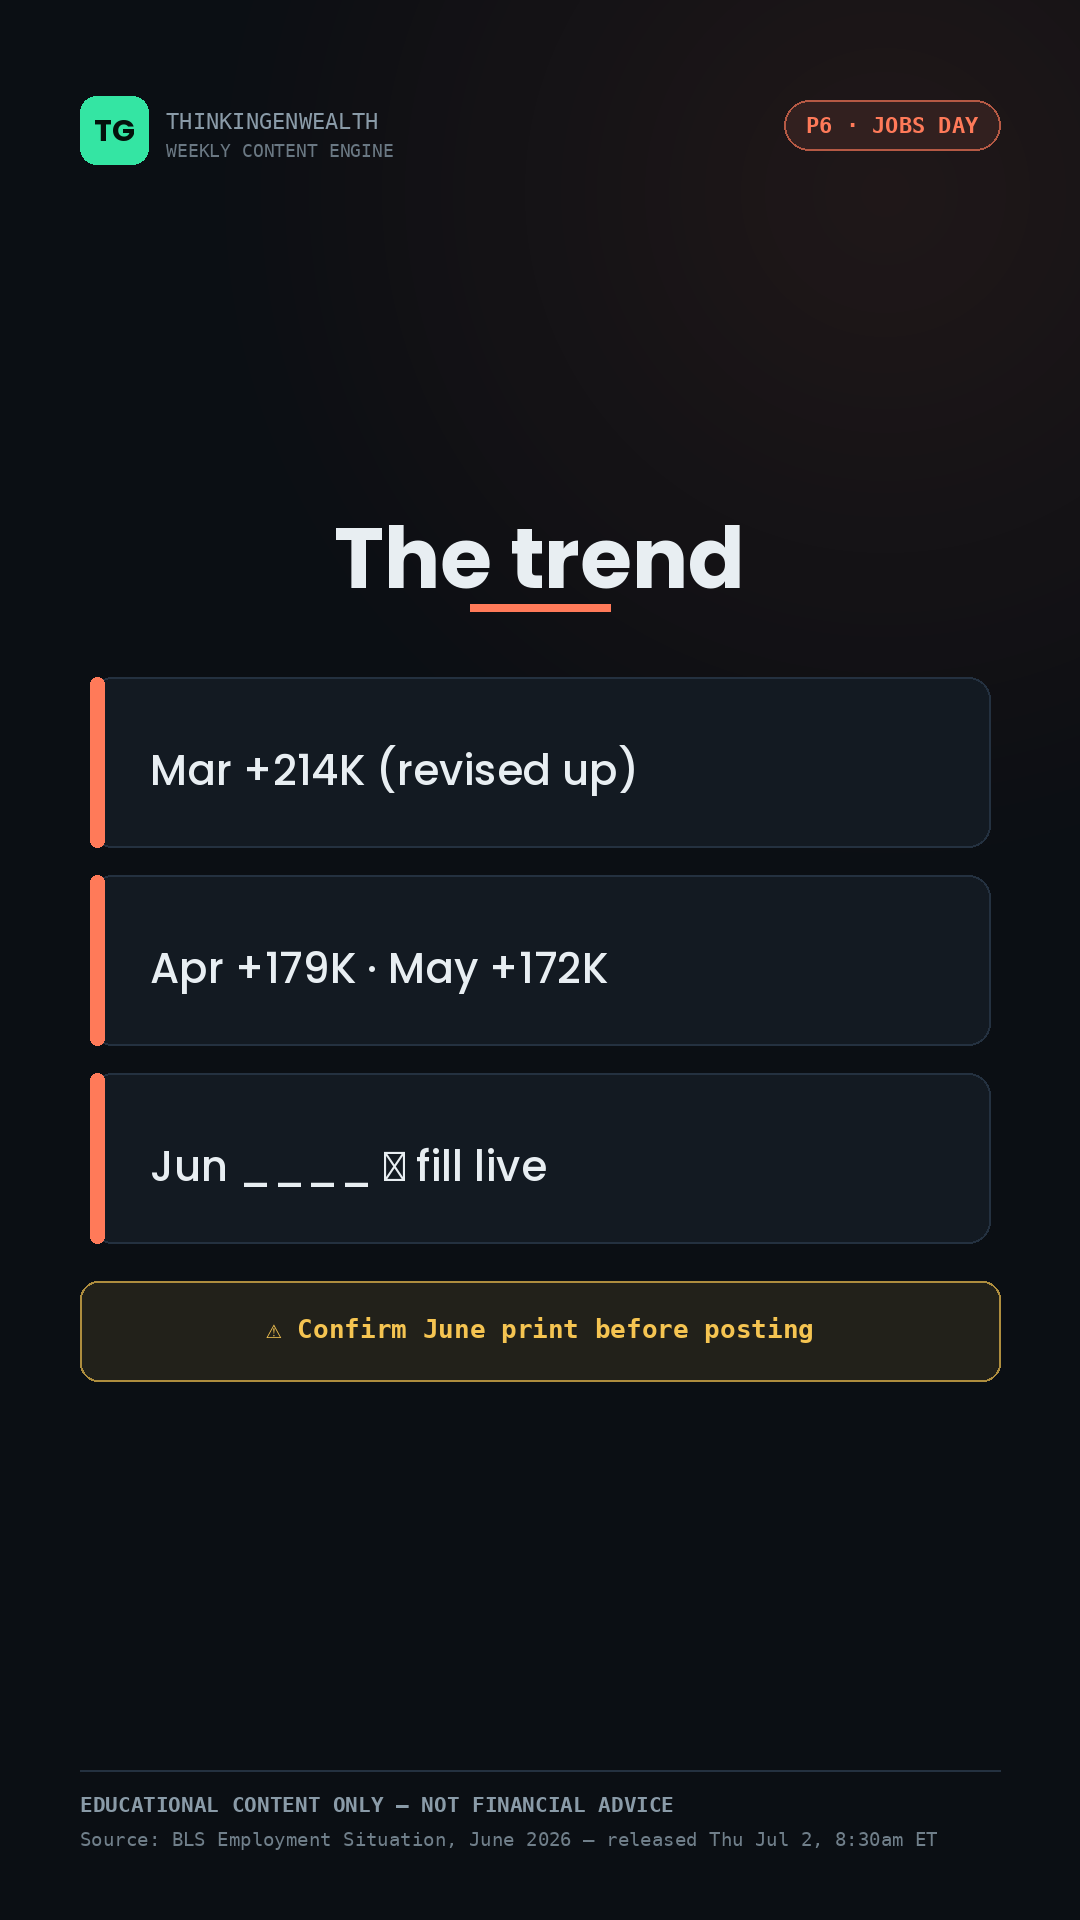
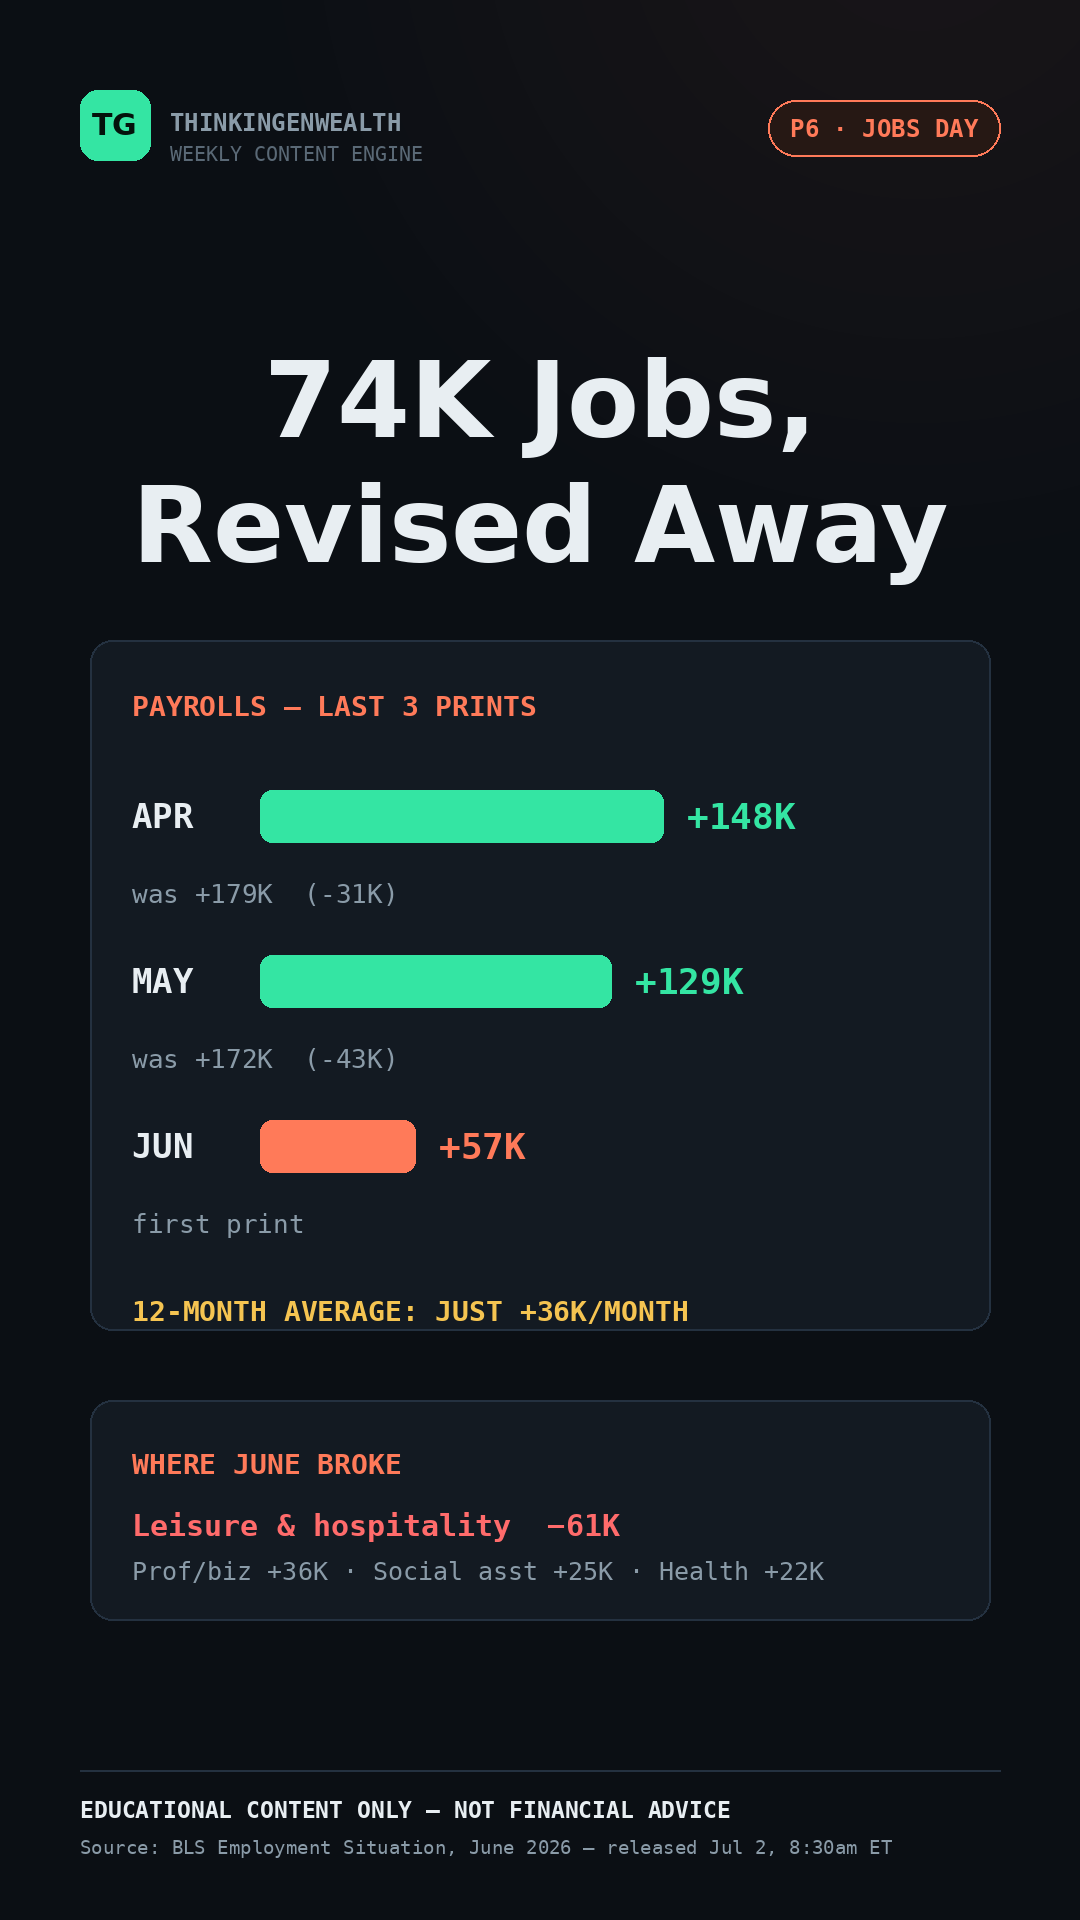
TGW calendar — jobs day update — June report reaction (week of Jun-29-Jul-5)

diff --git a/index.html b/index.html
@@ -279,7 +279,7 @@
     <div class="pat"><span class="v" style="width:64px;color:var(--p6)">MON</span><span class="f">Concrete news-reaction (all-time reach winner) × the AI round-trip<small>👥 TikTok 25–34: "your first $ — buy the dip?" · YouTube 35–54: "what a 2% swing does to your 401(k)/RSUs" · post at the peak (reach-spike)</small></span></div>
     <div class="pat"><span class="v" style="width:64px;color:var(--p4)">TUE</span><span class="f">Deep dive (REVISED): why AI ≠ dot-com 2.0 × last week's selloff + BIS warning<small>👥 Male 25–44 wealth-builders holding tech · lead IG at ~3pm · filming Wed Jul 1</small></span></div>
     <div class="pat"><span class="v" style="width:64px;color:var(--p1)">WED</span><span class="f">Chart education (the 95–125K Search vein) × the dip/bounce<small>👥 TikTok 25–34 lean ("dip or top?") · search-durable, so post off-peak — it compounds via Search</small></span></div>
-    <div class="pat"><span class="v" style="width:64px;color:var(--p6)">THU</span><span class="f">Concrete news-reaction × the June jobs print (8:30am)<small>👥 25–44 rate-path → debt cost (bridges to credit) · post midday reach-spike, lines up with IG peak</small></span></div>
+    <div class="pat"><span class="v" style="width:64px;color:var(--p6)">THU</span><span class="f">Concrete news-reaction × June jobs OUT: +57K miss, 4.2% "for the wrong reason"<small>👥 25–44 rate-path → debt cost (bridges to credit) · TikTok + IG + YT Short · post midday reach-spike, lines up with IG peak</small></span></div>
     <div class="pat"><span class="v" style="width:64px;color:var(--p2)">FRI</span><span class="f">Credit how-to (cross-platform winner) × markets closed / long weekend<small>👥 25–44 "what you can control" · evergreen, post off-peak</small></span></div>
     <div class="pat"><span class="v" style="width:64px;color:var(--p5)">SAT</span><span class="f">Mindset/debate (comment-driver) × Independence Day<small>👥 Male 25–44 ownership angle · weekend = hard Discord CTA</small></span></div>
     <div class="pat"><span class="v" style="width:64px;color:var(--muted)">SUN</span><span class="f">Loop reset — drop the banked trading long-form, record next anchor<small>👥 Route next week's ideas the same way: pillar × peg × audience, angled by age</small></span></div>
@@ -478,52 +478,53 @@
       <div class="dayhead">
         <div class="dow">THU<small>JUL 2 · JOBS DAY</small></div>
         <span class="pill" style="background:rgba(255,122,89,.12);color:var(--p6)">P6 · React</span>
-        <span class="hook">June jobs just dropped — 3 ways it hits your money</span>
+        <span class="hook">Unemployment fell to 4.2% — here's why that's the bad news</span>
         <span class="fmt">Greenscreen / React</span>
         <span class="chev">▶</span>
       </div>
       <div class="daybody"><div class="daybody-in">
         <div class="play">
           <div class="ph">▸ The play — everything for today</div>
-          <div class="playrow"><span class="pk pill">Pillar</span><span>Concrete news-reaction (data-release reach spike) — proven P6.</span></div>
-          <div class="playrow"><span class="pk peg">Peg</span><span>June jobs report, <b>8:30am ET</b> — last print + last trading day before the long weekend (markets closed Fri Jul 3).</span></div>
-          <div class="playrow"><span class="pk who">Who</span><span>25–44 — take it to their money: rate path → debt cost (bridges to credit).</span></div>
-          <div class="playrow"><span class="pk angle">Angle</span><span>"3 ways it hits your money." <b>⚠ FILL LIVE</b> — pull payrolls/unemployment/wages from bls.gov before you cite.</span></div>
-          <div class="playrow"><span class="pk post">Post</span><span>Film right after 8:30am, post <b>late-morning/midday</b> (lines up with IG peak) · TikTok 6–7pm.</span></div>
+          <div class="playrow"><span class="pk pill">Pillar</span><span>Concrete news-reaction (data-release reach spike) — proven P6. Myth-buster twist on top.</span></div>
+          <div class="playrow"><span class="pk peg">Peg</span><span><b>RELEASED 8:30am ET:</b> payrolls <b>+57K</b> (vs ~110K expected) · unemployment <b>4.2%</b> (from 4.3%) · Apr+May revised <b>−74K</b>. Last print + last trading day before the long weekend (markets closed Fri Jul 3).</span></div>
+          <div class="playrow"><span class="pk who">Who</span><span>25–44 — take it to their money: rate path → debt cost (bridges to credit). Younger cut: "what a hiring freeze means for your first job/raise."</span></div>
+          <div class="playrow"><span class="pk angle">Angle</span><span><b>"Unemployment fell — and that's the bad news."</b> The rate dropped because participation fell 0.3pt to 61.5% (people stopped looking), not because hiring picked up. Receipts: +57K miss, −74K revisions.</span></div>
+          <div class="playrow"><span class="pk post">Post</span><span>Film NOW, post <b>late-morning/midday</b> while it's the story (IG 12–3pm peak) · TikTok reaction midday too (reach-spike rule: peak window for news) · YT Short midday.</span></div>
         </div>
-        <div class="beats">FILM AFTER 8:30am ET once BLS releases — this is the week's reach spike</div>
+        <div class="beats">✅ NUMBERS ARE LIVE (BLS, 8:30am ET) — film and post while it's the story</div>
         <div class="beats-list">
-          <div>"The June jobs number just came out." React to payrolls + unemployment + wages vs the prior print (+172K / 4.3% / +3.4%).</div>
-          <div>Last data print AND last trading day before a 3-day weekend (markets closed Fri Jul 3) — extra reason it's the story.</div>
-          <div>3 ways it hits you: your rate path, your debt cost, the cut-vs-hike odds into the Jul 28-29 Fed.</div>
+          <div>The twist: unemployment FELL to 4.2% — but payrolls only +57K (vs ~110K expected) and participation dropped to 61.5%. The rate fell because people left the labor force.</div>
+          <div>The receipts: April cut to +148K (−31K), May cut to +129K (−43K) — 74K spring jobs revised away. 12-mo average pace: just +36K/month. Leisure &amp; hospitality −61K in June.</div>
+          <div>Your money: the story flips from hike-watch to cut-watch into the Jul 28-29 Fed → rate path → debt cost. Wages still +3.5% YoY. Markets closed tomorrow — last trading day of the week.</div>
         </div>
         <div class="drops">Drops today</div>
-        <div class="platrow"><span class="plat tt">TikTok (3-ways)</span><span class="plat short">YT Short #3</span></div>
+        <div class="platrow"><span class="plat tt">TikTok (twist 3-ways)</span><span class="plat ig">IG Reel (same cut)</span><span class="plat short">YT Short #3</span></div>
         <div class="drops">On each platform — what to post</div>
         <div class="perplat">
-          <div class="pp"><span class="ppl tt">TikTok</span><span>Jobs <b>3-ways</b> (⚠ FILL LIVE from bls.gov) · post midday reach-spike · Comment JOBS.</span></div>
-          <div class="pp"><span class="ppl yt">YouTube</span><span><b>Short #3</b> — the one number that moved the Fed odds → channel.</span></div>
+          <div class="pp"><span class="ppl tt">TikTok</span><span><b>Twist 3-ways</b> — "unemployment fell = bad news" green-screen react · post <b>midday</b> (reach-spike gets the peak) · Comment JOBS.</span></div>
+          <div class="pp"><span class="ppl ig">Instagram</span><span><b>Reel — same green-screen cut</b> · IG peak <b>12–3pm</b> · caption leads with "4.2% but…" · Comment JOBS.</span></div>
+          <div class="pp"><span class="ppl yt">YouTube</span><span><b>Short #3</b> — "the number everyone will misread today" (career-stage cut: what a +36K/mo economy means for raises &amp; job switches) → channel.</span></div>
         </div>
-        <div class="win">⏱ <b>Windows (ET):</b> film right after the <b>8:30am</b> release, post <b>late-morning/midday</b> while it's the story (lines up with your IG midday peak); TikTok 3-ways into <b>6–7pm</b>. <b>Verify the live June figures on bls.gov first.</b> Screen-share: jobs-report-dashboard.html.</div>
+        <div class="win">⏱ <b>Windows (ET):</b> numbers verified as of <b>8:30am</b> — film now, post <b>late-morning/midday</b> (IG 12–3pm peak); TikTok + Short midday too. <b>Before posting: re-check bls.gov once + pull live Fed-cut odds (CME FedWatch) if you cite them.</b> Screen-share: jobs-report-dashboard.html.</div>
         <div class="hooks">
-          <span class="k">▶ Green-screen hooks · Atlas style · FILL LIVE</span>
-          <div class="cold">Cold-open: "Jobs report just dropped."</div>
-          <div class="sus">Sustained caption: <b>"June Jobs Just Dropped — 3 Ways It Hits Your Money."</b></div>
+          <span class="k">▶ Green-screen hooks · Atlas style · NUMBERS FILLED (BLS 8:30am)</span>
+          <div class="cold">Cold-open: "Unemployment fell. That's bad."</div>
+          <div class="sus">Sustained caption: <b>"Unemployment Fell To 4.2% — Here's Why That's Actually Bad News."</b></div>
           <div class="gsgrid">
-            <a class="gsthumb" href="greenscreen/THU/THU_01_jobs_FILLLIVE.png" target="_blank"><img src="greenscreen/THU/THU_01_jobs_FILLLIVE.png" alt="jobs fill live"><span class="cap">01 · KPIs (fill)</span></a>
-            <a class="gsthumb" href="greenscreen/THU/THU_02_trend.png" target="_blank"><img src="greenscreen/THU/THU_02_trend.png" alt="trend"><span class="cap">02 · Trend (fill)</span></a>
-            <a class="gsthumb" href="greenscreen/THU/THU_03_fedread.png" target="_blank"><img src="greenscreen/THU/THU_03_fedread.png" alt="fed read"><span class="cap">03 · Rate read</span></a>
+            <a class="gsthumb" href="greenscreen/THU/THU_01_jobs_FILLLIVE.png" target="_blank"><img src="greenscreen/THU/THU_01_jobs_FILLLIVE.png" alt="the rate fell, look closer"><span class="cap">01 · The twist</span></a>
+            <a class="gsthumb" href="greenscreen/THU/THU_02_trend.png" target="_blank"><img src="greenscreen/THU/THU_02_trend.png" alt="74K revised away"><span class="cap">02 · Revisions</span></a>
+            <a class="gsthumb" href="greenscreen/THU/THU_03_fedread.png" target="_blank"><img src="greenscreen/THU/THU_03_fedread.png" alt="fed read"><span class="cap">03 · Fed read</span></a>
             <a class="gsthumb" href="greenscreen/THU/THU_clip.mp4" target="_blank"><video src="greenscreen/THU/THU_clip.mp4" muted loop playsinline preload="metadata" onmouseover="this.play()" onmouseout="this.pause()"></video><span class="vbadge">CLIP</span><span class="cap">Motion</span></a>
           </div>
-          <div class="gsnote">⚠ Fill the blanks on tiles 01 + 02 with the verified June numbers (payrolls / unemployment / wages) before exporting. Cut 01 → 02 → 03.</div>
+          <div class="gsnote">✅ Tiles carry the released June figures (verified on bls.gov at 8:30am ET Jul 2). Cut 01 → 02 → 03. Tile 03's Fed-odds line stays qualitative — pull CME FedWatch live if you want a number.</div>
         </div>
-        <details class="script"><summary>Full script — talking points · FILL LIVE</summary><div class="scriptbody">
-          <span class="lbl">TikTok 3-ways (reach spike)</span>"The June jobs number just dropped — here's 3 ways it hits your money."
-          <h5>Point 1 — The number</h5><ul><li>Payrolls [____] vs +172K prior; unemployment [____]% vs 4.3%; wages [____]% YoY vs +3.4% (BLS, today). Note March + April were revised +93K higher combined — watch the revisions.</li></ul>
-          <h5>Point 2 — Hot vs cool</h5><ul><li>Hot/above ~172K → Fed stays hawkish (dot median 3.8%, hike on the table) → cut hopes fade. Cool/rising unemployment → "cuts later this year" talk returns.</li></ul>
-          <h5>Point 3 — 3 ways it hits you</h5><ul><li>Your rate path · your debt cost if higher-for-longer holds · the cut-vs-hike odds into the Jul 28-29 Fed.</li></ul>
-          <h5>Close + CTA</h5><ul><li class="cta-line">"Comment JOBS for the rate-path cheat sheet."</li></ul>
-          <div class="cap-box">⚠ Re-verify the live June figures before recording/posting. Caption: The June jobs report is here — and it just moved the odds on the Fed's next move. 📌 #jobsreport #economy #fed #moneytok</div>
+        <details class="script"><summary>Full script — talking points · numbers live</summary><div class="scriptbody">
+          <span class="lbl">TikTok / IG twist 3-ways (reach spike)</span>"Unemployment just FELL to 4.2% — and that's actually the bad news in today's jobs report. Let me show you."
+          <h5>Point 1 — The twist (tile 01)</h5><ul><li>Rate: 4.3% → 4.2%. Sounds great. But payrolls only +57K vs ~110K expected — and participation fell 0.3pt to 61.5%. The rate fell because people STOPPED LOOKING, not because hiring picked up. Fewer people counted = rate drops anyway.</li></ul>
+          <h5>Point 2 — The receipts (tile 02)</h5><ul><li>April revised +179K → +148K. May revised +172K → +129K. That's 74K spring jobs erased. Average pace over 12 months: +36K/month. June's one big loser: leisure &amp; hospitality −61K (weak summer hiring).</li></ul>
+          <h5>Point 3 — Your money (tile 03)</h5><ul><li>The Fed story flips: hike-watch → cut-watch into Jul 28-29. Rate path → your debt cost (variable APRs). Wages still +3.5% YoY ($37.64) — paychecks growing while hiring stalls. Markets closed tomorrow, so today IS the reaction day.</li></ul>
+          <h5>Close + CTA</h5><ul><li class="cta-line">"One number looked good. Three said look closer. Comment JOBS for the rate-path cheat sheet."</li></ul>
+          <div class="cap-box">Caption: Unemployment fell to 4.2% — and that's the bad news. +57K jobs vs ~110K expected, 74K revised away, participation at 61.5%. Here's what it means for your money. 📌 #jobsreport #economy #fed #moneytok (IG: lead "4.2% but…")</div>
         </div></details>
         <div class="ctarow">
           <span class="cta">Comment-trigger · "Comment <b>JOBS</b> for the rate-path cheat sheet."</span>
@@ -703,11 +704,11 @@
       </ul>
     </div>
     <div class="pegcard">
-      <h4><span class="dot" style="background:var(--p3)"></span>Thursday: June jobs</h4>
+      <h4><span class="dot" style="background:var(--p3)"></span>Thursday: June jobs — OUT</h4>
       <ul>
-        <li><b>Releases Thu Jul 2, 8:30am ET</b> (BLS) — moved up a day; <b>markets closed Fri Jul 3</b> (July 4 is Sat).</li>
-        <li><b>Prior: +172K · 4.3% unemployment · +3.4% wages</b>; consensus ~172K — verify before citing.</li>
-        <li><b>Last print + last trading day</b> before the long weekend — the reach spike.</li>
+        <li><b>RELEASED Jul 2, 8:30am ET:</b> payrolls <b>+57K</b> (vs ~110K expected) · unemployment <b>4.2%</b> (from 4.3%) · wages <b>+3.5% YoY</b>.</li>
+        <li><b>The catch:</b> participation fell 0.3pt to <b>61.5%</b> — the rate fell because people left the labor force. Apr+May revised <b>−74K</b> combined; 12-mo avg +36K/mo; leisure &amp; hospitality <b>−61K</b>.</li>
+        <li><b>Soft print flips the Fed story</b> hike-watch → cut-watch into Jul 28-29 · markets closed Fri Jul 3 — today is the reaction day.</li>
       </ul>
     </div>
     <div class="pegcard">
@@ -715,7 +716,7 @@
       <ul>
         <li><b>Fed held Jun 17</b> (Warsh's first) · dot median <b>3.8%</b> — a hike still likelier than a cut.</li>
         <li><b>ISM Manufacturing PMI</b> drops <b>Wed Jul 1, 10am ET</b> — context for the chart day.</li>
-        <li><b>Next up:</b> June CPI Jul 14 · FOMC Jul 28-29 — this jobs print sets the table.</li>
+        <li><b>Next up:</b> June CPI Jul 14 · FOMC Jul 28-29 — today's soft jobs print (+57K, participation down) sets a dovish table; pull live cut odds (CME FedWatch) before citing.</li>
       </ul>
     </div>
   </div>

diff --git a/screenshare/jobs-report-dashboard.html b/screenshare/jobs-report-dashboard.html
@@ -3,7 +3,7 @@
 <head>
 <meta charset="UTF-8">
 <meta name="viewport" content="width=device-width, initial-scale=1.0">
-<title>TGW · June Jobs Day — Jul 2 (FILL LIVE)</title>
+<title>TGW · June Jobs Day — Jul 2 (numbers live)</title>
 <link href="https://fonts.googleapis.com/css2?family=Space+Grotesk:wght@500;600;700&family=Inter:wght@400;500;600&family=JetBrains+Mono:wght@500;600&display=swap" rel="stylesheet">
 <style>
   :root{--ink:#0B0F14;--panel:#131A22;--line:#243140;--mint:#34E5A3;--gold:#F5C451;--text:#E8EEF2;--muted:#8A9BA8;--p6:#FF7A59;--p2:#5B9BFF;
@@ -51,35 +51,35 @@
 </head>
 <body>
 <div class="wrap">
-  <div class="eyebrow">▶ Screen-share · Jobs Day · P6 · React · FILL LIVE</div>
-  <h1>June Jobs Report — Live Read</h1>
-  <p class="sub">Released Thursday Jul 2, 8:30am ET (moved up a day — July 4 is Saturday, so markets are closed Fri Jul 3). It's the last data print and the last trading day before the long weekend. Fill the blanks the second BEA/BLS posts, then record.</p>
-  <div class="fillbanner">⚠ FILL LIVE — replace every <span style="color:var(--p6)">____</span> with the verified June figure from bls.gov before recording or posting. Do not cite from memory.</div>
+  <div class="eyebrow">▶ Screen-share · Jobs Day · P6 · React · NUMBERS LIVE</div>
+  <h1>June Jobs Report — The Rate Fell. Look Closer.</h1>
+  <p class="sub">Released Thursday Jul 2, 8:30am ET (moved up a day — July 4 is Saturday, so markets are closed Fri Jul 3). Headline unemployment FELL to 4.2%, but payrolls missed at +57K and participation dropped 0.3pt to 61.5% — the rate fell because people left the labor force, not because hiring picked up.</p>
+  <div class="fillbanner">✅ Figures verified on bls.gov at 8:30am ET Jul 2. Re-check once before going live; pull CME FedWatch for live cut odds if you cite them.</div>
 
   <div class="kpis">
-    <div class="kpi"><div class="lab">Nonfarm payrolls</div><div class="now"><span class="blank">____K</span></div><div class="was">Prior (May): +172,000 · consensus ~172K</div></div>
-    <div class="kpi"><div class="lab">Unemployment rate</div><div class="now"><span class="blank">__._%</span></div><div class="was">Prior (May): 4.3%</div></div>
-    <div class="kpi"><div class="lab">Avg hourly earnings YoY</div><div class="now"><span class="blank">_._%</span></div><div class="was">Prior (May): +3.4% · +0.3% MoM</div></div>
+    <div class="kpi"><div class="lab">Nonfarm payrolls</div><div class="now">+57K</div><div class="was">vs ~110K expected · prior (May, rev.): +129K</div></div>
+    <div class="kpi"><div class="lab">Unemployment rate</div><div class="now" style="color:var(--mint)">4.2%</div><div class="was">Prior: 4.3% — fell for the wrong reason (participation 61.5%, −0.3pt)</div></div>
+    <div class="kpi"><div class="lab">Avg hourly earnings YoY</div><div class="now">+3.5%</div><div class="was">$37.64 · +0.3% MoM — paychecks still growing</div></div>
   </div>
 
   <div class="grid2">
     <div class="card">
-      <h2>Payroll trend</h2>
-      <p class="cap">The last few prints (revisions in parens) — drop June in once it's out</p>
+      <h2>Payroll trend — the spring got revised away</h2>
+      <p class="cap">April and May both cut; June lands at a third of the expected pace</p>
       <div class="trend">
         <div class="tr"><span class="mo">Mar</span><div class="track"><div class="fill" style="width:86%"></div></div><span class="vv">+214K</span></div>
-        <div class="tr"><span class="mo">Apr</span><div class="track"><div class="fill" style="width:72%"></div></div><span class="vv">+179K</span></div>
-        <div class="tr"><span class="mo">May</span><div class="track"><div class="fill" style="width:69%"></div></div><span class="vv">+172K</span></div>
-        <div class="tr live"><span class="mo">Jun</span><div class="track"></div><span class="vv">____K</span></div>
+        <div class="tr"><span class="mo">Apr</span><div class="track"><div class="fill" style="width:59%"></div></div><span class="vv">+148K</span></div>
+        <div class="tr"><span class="mo">May</span><div class="track"><div class="fill" style="width:52%"></div></div><span class="vv">+129K</span></div>
+        <div class="tr live"><span class="mo">Jun</span><div class="track"><div class="fill" style="width:23%;background:linear-gradient(90deg,var(--p6),#c25a3f)"></div></div><span class="vv">+57K</span></div>
       </div>
-      <p class="cap" style="margin-top:14px;margin-bottom:0">March &amp; April were revised <b style="color:var(--mint)">+93K higher</b> combined — watch the revisions line, not just the headline.</p>
+      <p class="cap" style="margin-top:14px;margin-bottom:0">April revised +179K → +148K (−31K), May +172K → +129K (−43K): <b style="color:var(--p6)">−74K combined</b>. 12-month average pace: just <b style="color:var(--gold)">+36K/month</b>. June's one big loser: leisure &amp; hospitality <b style="color:var(--p6)">−61K</b> (weak summer hiring); prof/biz +36K, social assistance +25K, health care +22K.</p>
     </div>
     <div class="card">
-      <h2>How the market reads it</h2>
-      <p class="cap">Same number, two stories — fill in which one it is</p>
+      <h2>How the market reads it — it came in cool</h2>
+      <p class="cap">The soft scenario is the one that landed</p>
       <div class="scenario">
-        <div class="sc hot"><h3>Hot (well above ~172K)</h3><p>Labor still tight → Fed stays hawkish (June dot median 3.8%, a hike on the table) → cut hopes fade → rate-sensitive stocks wobble into a closed Friday.</p></div>
-        <div class="sc cool"><h3>Cool (clearly below / rising unemployment)</h3><p>Softening labor → revives "cuts later this year" talk → relief for rate-sensitive names, but watch for growth-scare framing.</p></div>
+        <div class="sc cool"><h3>✓ Cool — what we got (+57K, participation down)</h3><p>Softening labor revives "cuts later this year" talk into the Jul 28-29 FOMC — the story flips from hike-watch (June dot median 3.8%) to cut-watch. Relief for rate-sensitive names, but watch growth-scare framing into a closed Friday.</p></div>
+        <div class="sc hot"><h3>The nuance to say out loud</h3><p>Unemployment fell to 4.2% — but only because 0.3pt of the labor force stopped looking (61.5% participation). A falling rate with falling participation is weakness dressed up as strength. Verify live cut odds on CME FedWatch before quoting a number.</p></div>
       </div>
     </div>
   </div>
@@ -88,13 +88,13 @@
     <h2>3 ways it hits your money</h2>
     <p class="cap">The TikTok 3-ways structure — the reach-spike post</p>
     <div class="ways">
-      <div class="w"><span class="n">1</span><span class="t">Your rate path<small>Strong jobs = higher-for-longer; weak jobs = the cut conversation comes back. Next Fed: Jul 28-29</small></span></div>
-      <div class="w"><span class="n">2</span><span class="t">Your debt cost<small>If higher-for-longer holds, variable APRs and new-loan rates stay elevated — another reason to fix the credit file</small></span></div>
-      <div class="w"><span class="n">3</span><span class="t">The cut-vs-hike odds<small>This print plus June CPI (Jul 14) sets the table for the late-July meeting</small></span></div>
+      <div class="w"><span class="n">1</span><span class="t">Your rate path<small>The +57K miss + falling participation brings the cut conversation back. Next Fed: Jul 28-29 — this print sets a dovish table</small></span></div>
+      <div class="w"><span class="n">2</span><span class="t">Your debt cost<small>Cut talk returning = eventual pressure off variable APRs — fix the credit file now so cheaper borrowing is usable later</small></span></div>
+      <div class="w"><span class="n">3</span><span class="t">The wage floor<small>Wages +3.5% YoY ($37.64) while hiring stalls at +36K/mo average — paychecks growing, doors narrowing. June CPI (Jul 14) completes the table</small></span></div>
     </div>
   </div>
 
-  <div class="note">Sources: BLS Employment Situation (June 2026, released Jul 2 — fill live from bls.gov); prior print May 2026 (+172K, 4.3%, +3.4% YoY wages); Fed June dot plot median 3.8% (federalreserve.gov). Educational content only — not financial advice; no specific trade recommendations or price predictions.</div>
+  <div class="note">Sources: BLS Employment Situation, June 2026 — released Jul 2, 2026, 8:30am ET (bls.gov): +57K payrolls; 4.2% unemployment; participation 61.5% (−0.3pt); Apr rev. +148K / May rev. +129K (−74K comb.); 12-mo avg +36K/mo; leisure &amp; hospitality −61K; AHE $37.64, +3.5% YoY. Consensus ~100–115K (FactSet ~100K via Kiplinger; ~115K via CNN preview). Fed June dot median 3.8% (federalreserve.gov). Educational content only — not financial advice; no specific trade recommendations or price predictions.</div>
 </div>
 </body>
 </html>

diff --git a/scripts/scripts.md b/scripts/scripts.md
@@ -1,0 +1,13 @@
+# TGW Scripts — Week of Jun 29 – Jul 5, 2026
+
+> The full per-day scripts are embedded in the hub calendar (board.html) under each day's "Full script" block. This file is the quick reference. Educational only — not financial advice; no specific trade recommendations or price predictions. Re-verify the live June jobs figures Thursday before citing.
+
+**Verified pegs (re-verify live before posting):** AI/Mag-7 round-trip — Nasdaq −2.2% Jun 24 → +2.07% (25,820) Jun 29; Dow record 52,182.74; S&P +1.18% (7,440.43); Alphabet +4% and joined the Dow; SCOTUS 5-4 kept Fed gov. Lisa Cook. Combined 2026 AI capex guidance ≈ $725B (vs ~$410B in 2025). Earnings (Q1 2026): Azure +40%, Google Cloud +63%, AWS +28%, Meta ads +33%, Nvidia DC +92%/~75% GM; op income +~30% across the four; FCF squeezed (MSFT −22%, Alphabet $10.1B vs $19.0B, Amazon TTM −95%). June jobs report releases **Thu Jul 2, 8:30am ET** (moved up — July 4 is Sat, markets closed Fri Jul 3). Prior (May): +172K payrolls, 4.3% unemployment, +3.4% YoY wages; Mar+Apr revised +93K higher combined. Fed held Jun 17 (Warsh's first), dot median 3.8%; ISM Mfg PMI Wed Jul 1 10am; June CPI Jul 14; FOMC Jul 28-29.
+
+- **MON Jun 29 (P6 flagship):** "The AI Dip Got Bought: Nasdaq +2%, Dow Tops 52,000 — Is the Reality Check Over?" Round-trip + the Segment-2 earnings deep-dive (is the ~$725B capex showing up in earnings?). YT long-form + Short #1 + TikTok clip + IG Reel + Community poll. Comment AI. (Screen-share: ai-selloff-dashboard.html)
+- **TUE Jun 30 (COLLAB/REACT, IG-first):** "A Top Creator Calls AI 'Dot-Com 2.0.' Here's the Catch." React to a finance creator's AI-bubble take (stitch/screenshot their clip) — our #1 IG format (just hit 21.8K with "Buy the dip?"). IG Reel + TikTok + YT Short. Comment BUBBLE.
+- **WED Jul 1 (P1 trade ★ evergreen):** "Dip or Top? 3 Chart Signals That Tell You." — TikTok + Short #2 + Community tip. Clips the banked trading long-form. ISM Mfg 10am = context only.
+- **THU Jul 2 (P6 reach spike, JOBS DAY — ✅ RELEASED 8:30am, angle updated):** "Unemployment Fell To 4.2% — Here's Why That's Actually Bad News." June: +57K payrolls (vs ~110K expected), 4.2% unemployment BUT participation −0.3pt to 61.5%; Apr+May revised −74K; 12-mo avg +36K/mo; leisure −61K; wages +3.5% YoY. TikTok twist 3-ways + IG Reel (added) + Short #3, post midday. Comment JOBS. (Screen-share: jobs-report-dashboard.html — numbers filled)
+- **FRI Jul 3 (P2 credit, market closed):** "Markets Are Closed Friday. Fix Your Credit File Instead." — 3 denial triggers + the funding-ladder bridge. TikTok + Short.
+- **SAT Jul 4 (P5 proof, Independence Day, hard CTA):** "Real Independence Isn't a Paycheck. It's Owning Assets." — mindset + social proof. TikTok + IG Reel + Community BTS. DM GEN for the Discord.
+- **SUN Jul 5:** drop the banked trading ep ("Dip or Top") + record next week's anchor (post-jobs fallout, June CPI Jul 14 / FOMC Jul 28-29 run-up). The Sunday automation rebuilds Jul 6–12 and auto-deploys.

diff --git a/greenscreen/greenscreen-and-hooks.md b/greenscreen/greenscreen-and-hooks.md
@@ -24,10 +24,11 @@ Backgrounds: WED_01_dipvstop → WED_02_signals → WED_03_watch · Clip: WED_cl
 - **Cold-open:** "Dip or top?" · **Sustained:** "3 Chart Signals That Tell a Dip From a Top."
 - Search-durable chart education (the 95K–125K vein). ISM Manufacturing PMI also drops 10am ET — mention as context, keep the post evergreen.
 
-## THU Jul 2 — JOBS DAY reach spike (P6) · FILL LIVE
-Backgrounds: THU_01_jobs_FILLLIVE → THU_02_trend → THU_03_fedread · Clip: THU_clip
-- **Cold-open:** "Jobs report just dropped." · **Sustained:** "June Jobs Just Dropped — 3 Ways It Hits Your Money."
-- ⚠ FILL the blanks on tile 01 + 02 with the verified June numbers (payrolls, unemployment, wages) **from bls.gov before exporting.** Released 8:30am ET — film right after, post late morning while it's the story. Last trading day before the long weekend (markets closed Fri Jul 3).
+## THU Jul 2 — JOBS DAY reach spike (P6) · ✅ NUMBERS FILLED (BLS, released 8:30am ET Jul 2)
+Backgrounds (regenerated with the real June figures): THU_01_jobs_FILLLIVE ("The Rate Fell. Look Closer.") → THU_02_trend ("74K Jobs, Revised Away") → THU_03_fedread ("Fed Read: Cuts Back On Deck?") · Clip: THU_clip (Ken Burns over tile 01)
+- **Cold-open:** "Unemployment fell. That's bad." · **Sustained:** "Unemployment Fell To 4.2% — Here's Why That's Actually Bad News."
+- Angle updated post-release (claim + sharpener, per Atlas): payrolls **+57K** vs ~110K expected · unemployment **4.2%** (from 4.3%) — but participation fell 0.3pt to **61.5%**, so the rate fell because people left the labor force, not because hiring picked up. Receipts: Apr −31K / May −43K revisions (−74K combined), 12-mo avg +36K/mo, leisure & hospitality −61K, wages +3.5% YoY ($37.64).
+- Platforms: TikTok + **IG Reel (added — week's biggest concrete event)** + YT Short #3. Film now, post late-morning/midday (IG 12–3pm peak). Tile 03 keeps the Fed read qualitative — pull CME FedWatch live before citing an odds number. Markets closed Fri Jul 3 — today is the reaction day.
 
 ## FRI Jul 3 — Credit (P2) · market closed · Independence-weekend framing
 Backgrounds: FRI_01_closed → FRI_02_triggers → FRI_03_bridge · Clip: FRI_clip